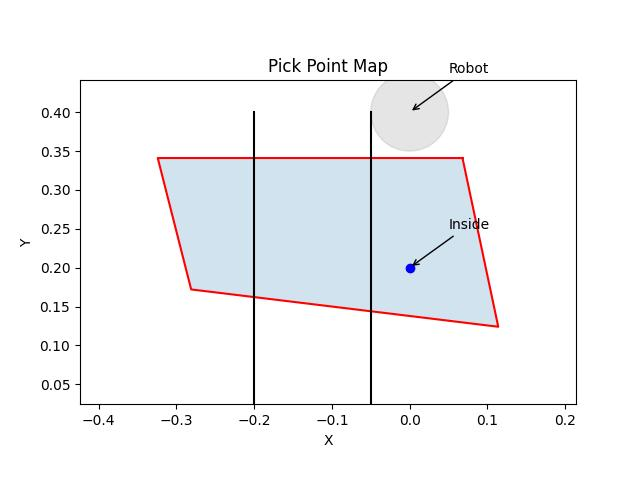
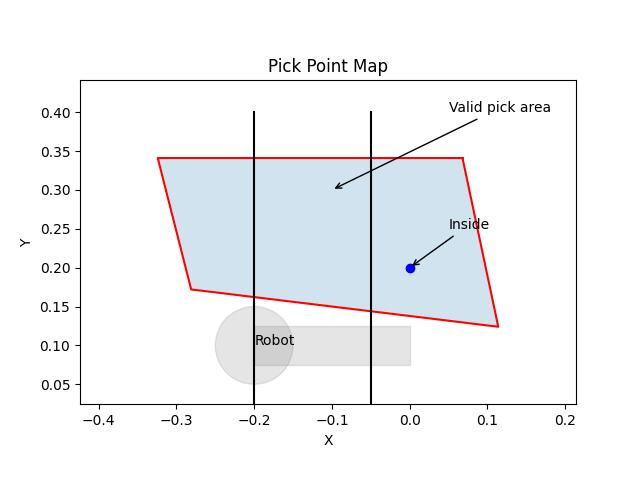
plot

diff --git a/src/robogistics_brause/robogistics_brause/plot.py b/src/robogistics_brause/robogistics_brause/plot.py
@@ -35,11 +35,16 @@ xs, ys = zip(*polygon)
 fig, ax = plt.subplots()
 ax.plot(xs, ys, 'r-')
 ax.add_patch(Polygon(polygon, closed=True, alpha=0.2))
+ax.annotate('Valid pick area', xy=(-0.1, 0.3), xytext=(0.05, 0.4),
+            arrowprops=dict(facecolor='black', arrowstyle='->'))
 
-#place a huge circle at 0.0, 0.4 and name it Robot
-ax.add_patch(plt.Circle((0.0, 0.4), 0.05, color='grey', alpha=0.2))
-ax.annotate('Robot', xy=(0.0, 0.4), xytext=(0.0+0.05, 0.4+0.05),
-                arrowprops=dict(facecolor='black', arrowstyle='->'))
+#place a huge circle at -0.2, 0.1 and name it Robot
+ax.add_patch(plt.Circle((-0.2, 0.1), 0.05, color='grey', alpha=0.2))
+ax.annotate('Robot', xy=(-0.2, 0.1), xytext=(-0.2, 0.1))
+
+#add a grey robot arm rectangle
+ax.add_patch(plt.Rectangle((-0.2, 0.075), 0.2, 0.05, color='grey', alpha=0.2))
+
 
 #add lines along x values -0.2 and -0.05
 ax.plot([-0.2, -0.2], [-0.2, 0.4], 'k-')
